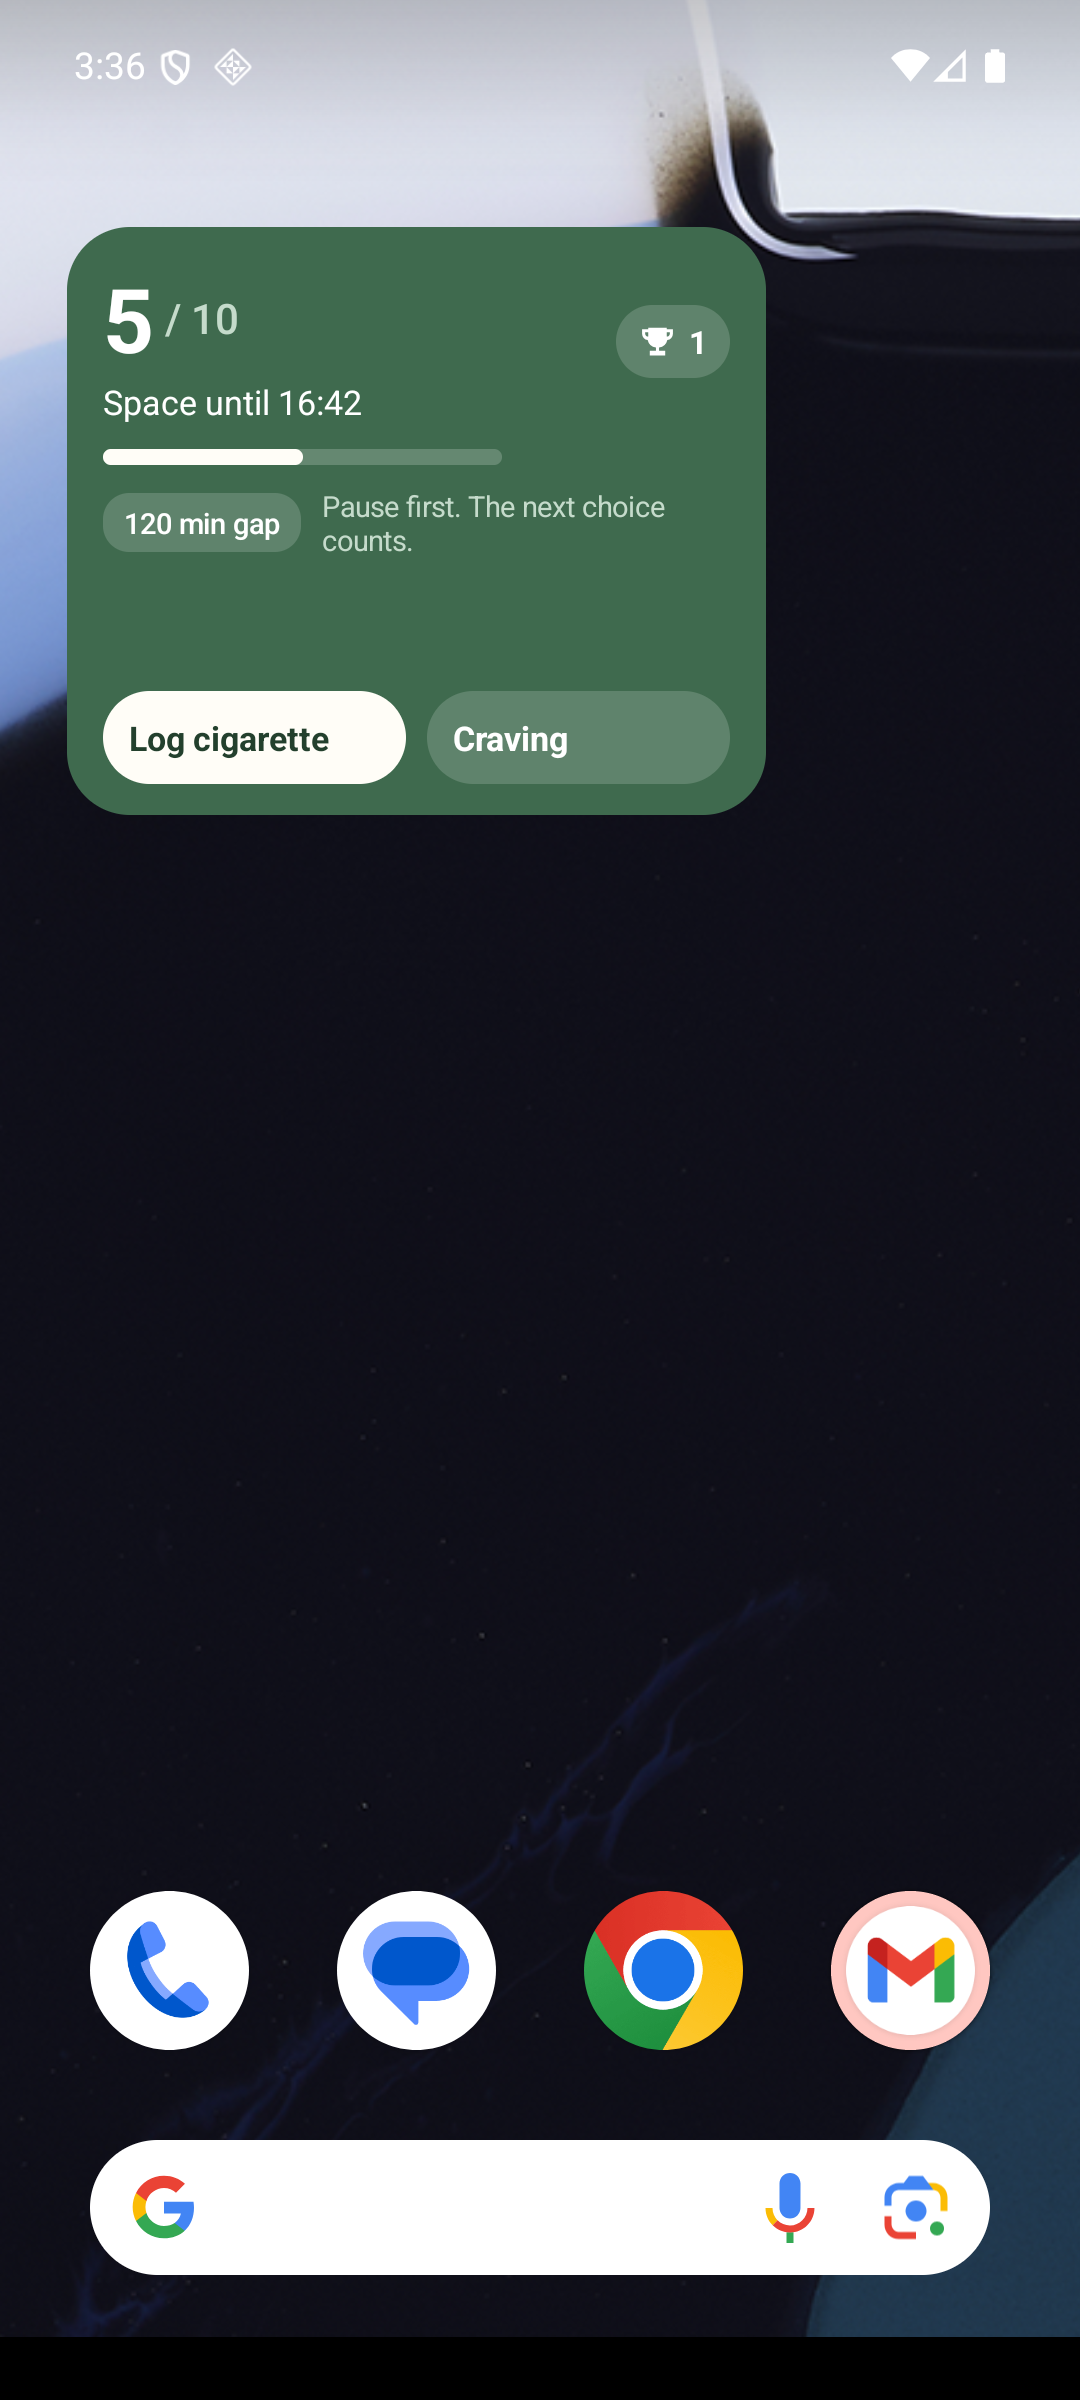
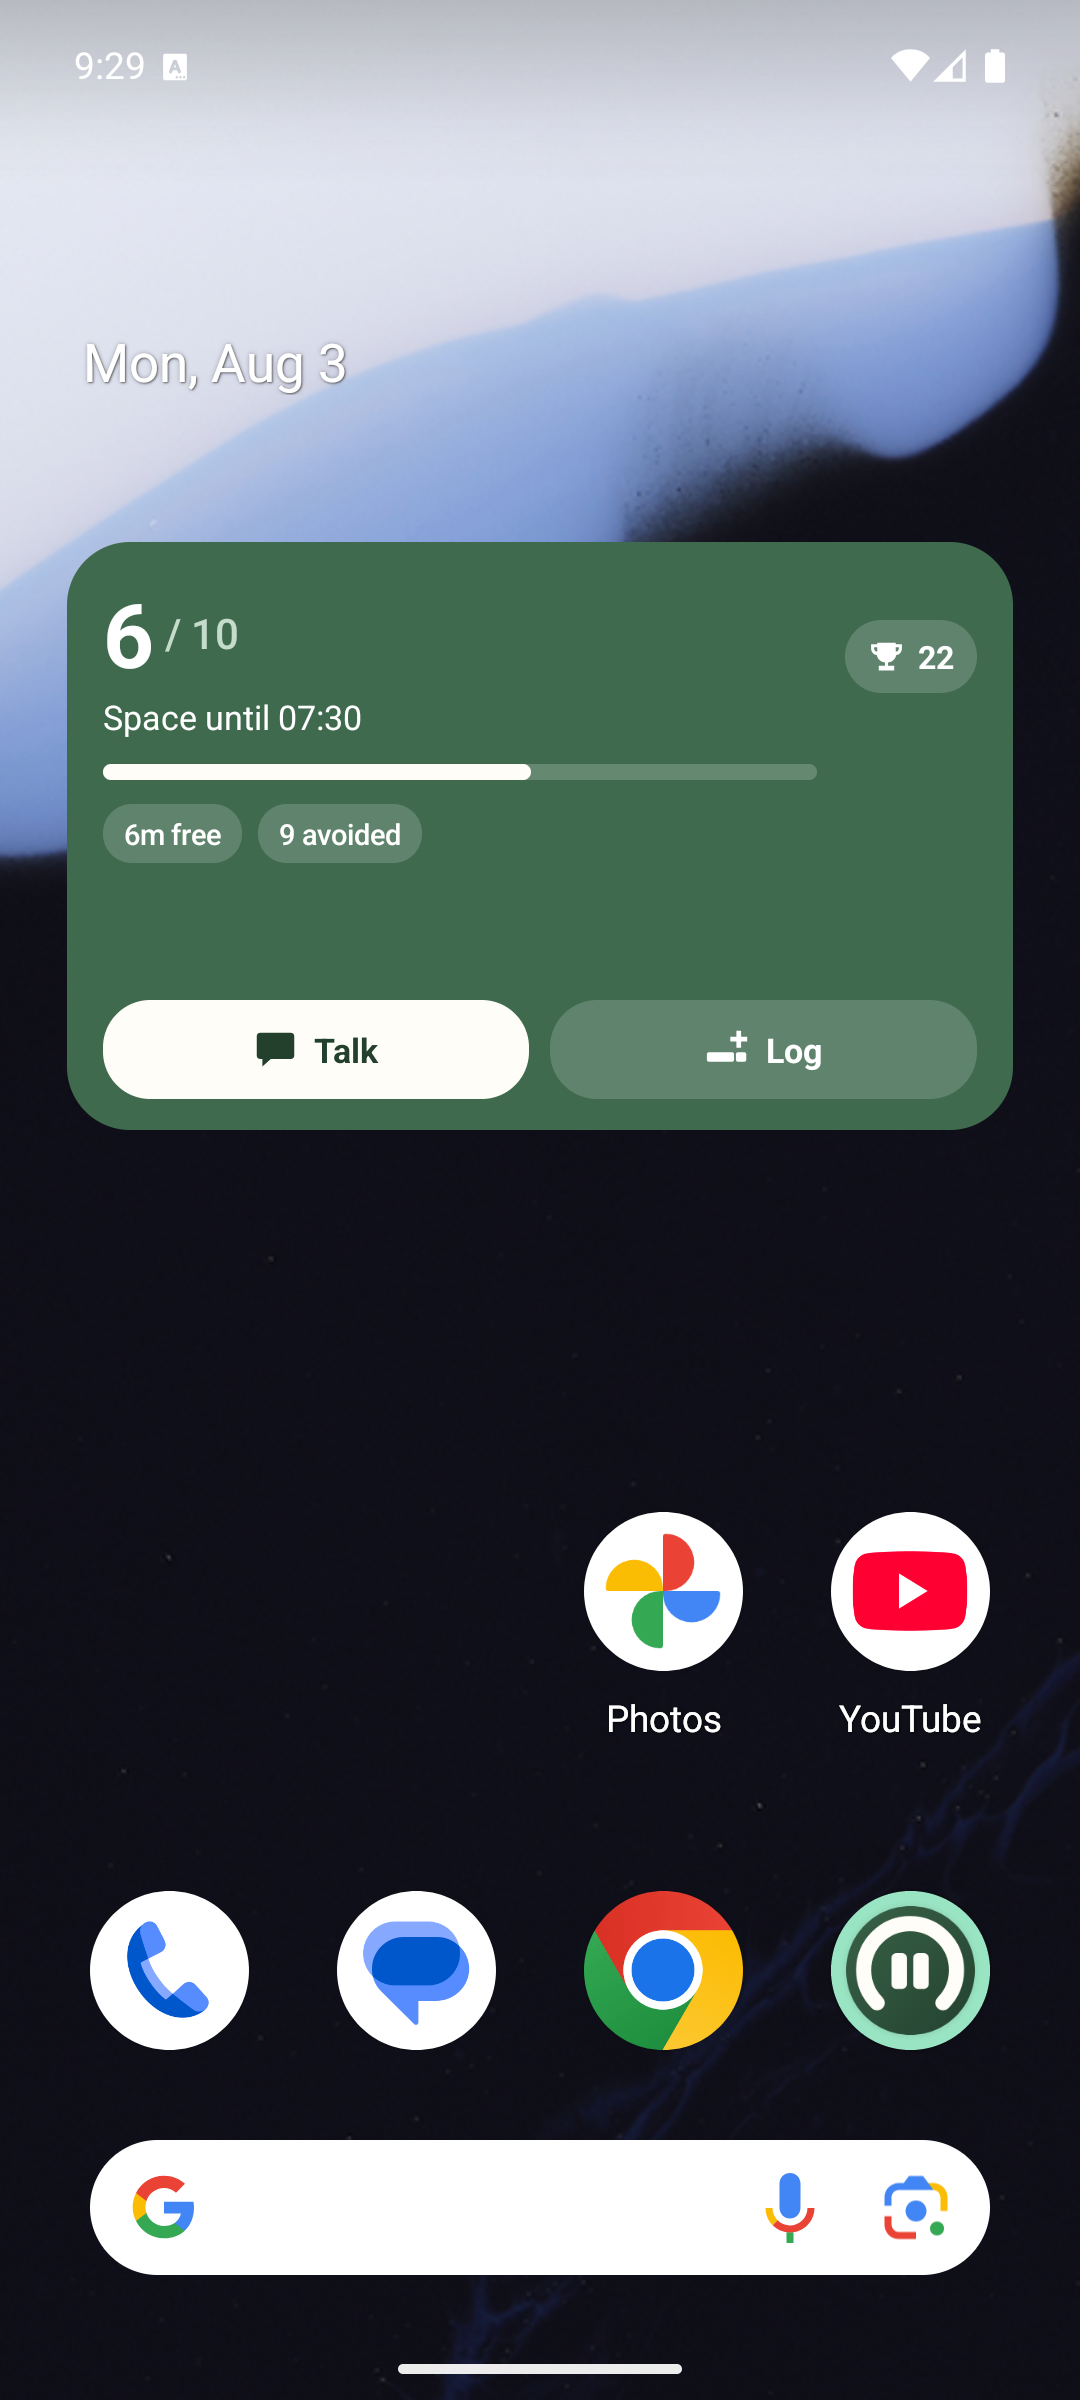
Make the widget countdown live and stop stray taps from logging
The countdown was frozen
- It was computed in Kotlin at render time, but Glance only redraws when something
  asks it to — in practice every six hours. So the "time to next" figure was
  whatever it happened to be when the widget last drew, and only looked correct
  because opening the app forced a refresh.
- Replaced with a real Chronometer embedded via AndroidRemoteViews. The framework
  ticks it with no app process involved, so it stays honest on the home screen.
- Only shown for waits under four hours. Beyond that the seconds are noise and
  H:MM:SS crowded the header badly enough to clip; the status line already carries
  an absolute "until 07:30", which cannot go stale.

Logging now needs a second tap
- A widget lives under a thumb all day, and one stray tap wrote a cigarette that
  never happened — which corrupts the history everything else reasons from. The
  first tap arms the button, showing an amber "Sure?" with a tick; only a second
  tap within eight seconds commits. A worker returns it to rest if that tap never
  comes, and the twelve-second undo still applies afterwards.

Layout, icons and colour
- Talk takes the wide primary slot and logging sits secondary beside it: the
  encouraged action should be the easy one.
- Labels are back on both buttons. Icon-only was unreadable at this size — the
  cigarette-plus in particular rendered as an ambiguous smudge — and the icon has
  been redrawn chunkier to survive 17dp.
[…]

diff --git a/app/src/main/java/com/pace/reduction/widget/PaceWidget.kt b/app/src/main/java/com/pace/reduction/widget/PaceWidget.kt
@@ -2,6 +2,8 @@ package com.pace.reduction.widget
 
 import android.content.Context
 import android.content.Intent
+import android.os.SystemClock
+import android.widget.RemoteViews
 import androidx.compose.runtime.Composable
 import androidx.compose.runtime.collectAsState
 import androidx.compose.runtime.getValue
@@ -15,6 +17,8 @@ import androidx.glance.GlanceTheme
 import androidx.glance.ColorFilter
 import androidx.glance.ImageProvider
 import androidx.glance.Image
+import androidx.glance.LocalContext
+import androidx.glance.appwidget.AndroidRemoteViews
 import androidx.glance.LocalSize
 import androidx.glance.action.clickable
 import androidx.glance.appwidget.GlanceAppWidget
@@ -102,7 +106,7 @@ private fun PaceWidgetContent(context: Context, snapshot: WidgetSnapshot, size: 
             return@Column
         }
 
-        val countdown = countdownLabel(snapshot)
+        val countdownTarget = countdownTargetEpochMs(snapshot)
 
         Row(verticalAlignment = Alignment.CenterVertically, modifier = GlanceModifier.fillMaxWidth()) {
             Column(modifier = GlanceModifier.defaultWeight()) {
@@ -131,23 +135,16 @@ private fun PaceWidgetContent(context: Context, snapshot: WidgetSnapshot, size: 
                     style = TextStyle(color = OnDark, fontSize = if (compact) 11.sp else 13.sp),
                 )
             }
-            // The headline number people actually want: how long until the next one is due.
-            if (countdown != null) {
+            // The figure people actually want, ticking on its own via a system Chronometer.
+            if (countdownTarget != null) {
                 Column(horizontalAlignment = Alignment.Horizontal.End) {
-                    Text(
-                        text = countdown,
-                        style = TextStyle(
-                            color = OnDark,
-                            fontSize = if (compact) 16.sp else 22.sp,
-                            fontWeight = FontWeight.Bold,
-                        ),
-                    )
+                    LiveCountdown(targetEpochMs = countdownTarget)
                     Text(
                         text = context.getString(R.string.widget_until_next_label),
                         style = TextStyle(color = Muted, fontSize = 10.sp),
                     )
                 }
-            } else if (!compact && snapshot.latestBadgeId.isNotBlank()) {
+            } else if (snapshot.badgeCount > 0) {
                 BadgeChip(context, snapshot)
             }
         }
@@ -170,19 +167,17 @@ private fun PaceWidgetContent(context: Context, snapshot: WidgetSnapshot, size: 
                 } else {
                     StatPill(text = context.getString(R.string.widget_avoided, snapshot.cigarettesAvoided))
                 }
+                // The badge count lives in the top-right corner; repeating it here was noise.
                 if (wide && snapshot.zeroDayStreak > 0) {
                     Spacer(GlanceModifier.width(6.dp))
                     StatPill(text = context.getString(R.string.widget_streak, snapshot.zeroDayStreak))
                 }
-                if (wide && snapshot.badgeCount > 0) {
-                    Spacer(GlanceModifier.width(6.dp))
-                    BadgeChip(context, snapshot)
-                }
             }
         }
 
-        // Only when there is genuine vertical room, otherwise the line gets clipped mid-word.
-        if (!compact && size.height >= 140.dp && snapshot.quote.isNotBlank()) {
+        // Fills the gap between the stats and the actions when the widget is tall enough to
+        // render it whole; clipping a quote mid-word looks worse than omitting it.
+        if (!compact && size.height >= 110.dp && snapshot.quote.isNotBlank()) {
             Spacer(GlanceModifier.height(9.dp))
             Text(
                 text = snapshot.quote,
@@ -192,18 +187,22 @@ private fun PaceWidgetContent(context: Context, snapshot: WidgetSnapshot, size: 
         }
 
         Spacer(GlanceModifier.defaultWeight())
-        // Icons rather than labels: the widget is glanceable, and these two actions are obvious.
+        val armed = snapshot.logArmedUntilEpochMs > System.currentTimeMillis()
         Row(modifier = GlanceModifier.fillMaxWidth()) {
+            // Talking is the encouraged action, so it gets the wide primary slot; logging sits
+            // narrower alongside and needs a second tap to commit.
             WidgetAction(
-                iconRes = R.drawable.ic_widget_log,
-                contentDescription = context.getString(R.string.widget_log),
+                iconRes = R.drawable.ic_widget_chat,
+                label = context.getString(R.string.widget_talk),
+                contentDescription = context.getString(R.string.widget_talk),
                 modifier = GlanceModifier.defaultWeight(),
-                onClick = actionRunCallback<WidgetLogAction>(),
+                onClick = actionStartActivity(coachIntent),
             )
             Spacer(GlanceModifier.width(8.dp))
             if (canUndo) {
                 WidgetAction(
                     iconRes = R.drawable.ic_widget_undo,
+                    label = context.getString(R.string.undo),
                     contentDescription = context.getString(R.string.undo),
                     modifier = GlanceModifier.defaultWeight(),
                     onClick = actionRunCallback<WidgetUndoAction>(),
@@ -211,11 +210,15 @@ private fun PaceWidgetContent(context: Context, snapshot: WidgetSnapshot, size: 
                 )
             } else {
                 WidgetAction(
-                    iconRes = R.drawable.ic_widget_chat,
-                    contentDescription = context.getString(R.string.have_craving),
+                    iconRes = if (armed) R.drawable.ic_widget_confirm else R.drawable.ic_widget_log,
+                    label = context.getString(
+                        if (armed) R.string.widget_log_confirm else R.string.widget_log_short,
+                    ),
+                    contentDescription = context.getString(R.string.widget_log),
                     modifier = GlanceModifier.defaultWeight(),
-                    onClick = actionStartActivity(coachIntent),
-                    subdued = true,
+                    onClick = actionRunCallback<WidgetLogAction>(),
+                    subdued = !armed,
+                    emphasised = armed,
                 )
             }
         }
@@ -284,10 +287,33 @@ private fun StatPill(text: String) {
 }
 
 /**
- * Time left until the next planned window, or null when nothing is being waited for.
- * Computed at render time; [WidgetBoundaryWorker] re-renders when the window arrives.
+ * A system-ticked countdown. Glance only redraws when something asks it to, so a value computed
+ * here in Kotlin would freeze between refreshes; Chronometer is driven by the framework instead and
+ * keeps counting with no app process running.
  */
-private fun countdownLabel(snapshot: WidgetSnapshot): String? {
+@Composable
+private fun LiveCountdown(targetEpochMs: Long) {
+    val context = LocalContext.current
+    val remoteViews = RemoteViews(context.packageName, R.layout.widget_countdown).apply {
+        setChronometerCountDown(R.id.widget_countdown, true)
+        setChronometer(
+            R.id.widget_countdown,
+            // Chronometer works in elapsed-realtime, so rebase the wall-clock target onto it.
+            SystemClock.elapsedRealtime() + (targetEpochMs - System.currentTimeMillis()),
+            null,
+            true,
+        )
+    }
+    AndroidRemoteViews(remoteViews)
+}
+
+/**
+ * The moment the current wait ends, or null when a ticking countdown would not earn its space.
+ *
+ * Beyond a few hours the seconds are noise and H:MM:SS crowds the header — the status line already
+ * says "until 07:30", which never goes stale anyway.
+ */
+private fun countdownTargetEpochMs(snapshot: WidgetSnapshot): Long? {
     if (snapshot.state != WidgetStateProto.WIDGET_STATE_SPACING &&
         snapshot.state != WidgetStateProto.WIDGET_STATE_MORNING_HOLD &&
         snapshot.state != WidgetStateProto.WIDGET_STATE_REST
@@ -295,13 +321,11 @@ private fun countdownLabel(snapshot: WidgetSnapshot): String? {
         return null
     }
     val remaining = snapshot.stateUntilEpochMs - System.currentTimeMillis()
-    if (remaining <= 0) return null
-    val minutes = remaining / 60_000
-    return when {
-        minutes >= 60 -> "${minutes / 60}h ${minutes % 60}m"
-        else -> "${minutes}m"
-    }
+    return snapshot.stateUntilEpochMs.takeIf { remaining in 1..MAX_COUNTDOWN_MS }
 }
+
+/** Above this, show the absolute time instead of a ticking clock. */
+private const val MAX_COUNTDOWN_MS = 4 * 60 * 60 * 1_000L
 
 private fun shortDuration(minutes: Int): String {
     val safe = minutes.coerceAtLeast(0)
@@ -337,24 +361,39 @@ private fun BadgeChip(context: Context, snapshot: WidgetSnapshot) {
 @Composable
 private fun WidgetAction(
     iconRes: Int,
+    label: String,
     contentDescription: String,
     modifier: GlanceModifier,
     onClick: androidx.glance.action.Action,
     subdued: Boolean = false,
+    emphasised: Boolean = false,
 ) {
-    Box(
+    val background = when {
+        emphasised -> ColorProvider(Color(0xFFE9B44C), Color(0xFFD79E33))
+        subdued -> ColorProvider(Color(0x2BFFFFFF), Color(0x24FFFFFF))
+        else -> Surface
+    }
+    val foreground = if (subdued) OnDark else Ink
+    Row(
         modifier = modifier
-            .background(if (subdued) ColorProvider(Color(0x2BFFFFFF), Color(0x24FFFFFF)) else Surface)
+            .background(background)
             .cornerRadius(18.dp)
             .clickable(onClick)
             .padding(vertical = 10.dp),
-        contentAlignment = Alignment.Center,
+        verticalAlignment = Alignment.CenterVertically,
+        horizontalAlignment = Alignment.Horizontal.CenterHorizontally,
     ) {
         Image(
             provider = ImageProvider(iconRes),
             contentDescription = contentDescription,
-            colorFilter = ColorFilter.tint(if (subdued) OnDark else Ink),
-            modifier = GlanceModifier.size(20.dp),
+            colorFilter = ColorFilter.tint(foreground),
+            modifier = GlanceModifier.size(17.dp),
+        )
+        Spacer(GlanceModifier.width(6.dp))
+        Text(
+            text = label,
+            maxLines = 1,
+            style = TextStyle(color = foreground, fontSize = 13.sp, fontWeight = FontWeight.Bold),
         )
     }
 }
@@ -384,14 +423,23 @@ private fun Long.asLocalTime(): String = Instant.ofEpochMilli(this)
     .atZone(ZoneId.systemDefault())
     .format(DateTimeFormatter.ofPattern("HH:mm"))
 
+/**
+ * Two-step by design. A widget sits under a thumb all day, and an accidental tap writes a
+ * cigarette that never happened — which corrupts exactly the history the whole app reasons from.
+ * The first tap only arms the button.
+ */
 class WidgetLogAction : ActionCallback {
     override suspend fun onAction(
         context: Context,
         glanceId: GlanceId,
         parameters: androidx.glance.action.ActionParameters,
     ) {
-        context.repository().logCigarette(source = "WIDGET")
-        WidgetUndoExpiryWorker.schedule(context)
+        if (context.repository().armOrCommitWidgetLog()) {
+            context.repository().logCigarette(source = "WIDGET")
+            WidgetUndoExpiryWorker.schedule(context)
+        } else {
+            WidgetDisarmWorker.schedule(context)
+        }
     }
 }
 

diff --git a/app/src/main/java/com/pace/reduction/data/repository/PaceRepository.kt b/app/src/main/java/com/pace/reduction/data/repository/PaceRepository.kt
@@ -515,6 +515,37 @@ class PaceRepository(
         return firstSentence.takeIf { it.isNotEmpty() && it.length <= MAX_WIDGET_QUOTE_CHARS }
     }
 
+    /**
+     * Widget logging is two-step so a pocket tap cannot invent a cigarette. The first tap arms the
+     * button for [LOG_ARM_WINDOW_MS]; only a second tap inside that window actually logs.
+     *
+     * Returns true when this tap committed a log.
+     */
+    suspend fun armOrCommitWidgetLog(): Boolean {
+        val now = clock.millis()
+        var commit = false
+        widgetStore.updateData { current ->
+            if (current.logArmedUntilEpochMs > now) {
+                commit = true
+                current.toBuilder().clearLogArmedUntilEpochMs().build()
+            } else {
+                current.toBuilder().setLogArmedUntilEpochMs(now + LOG_ARM_WINDOW_MS).build()
+            }
+        }
+        if (!commit) PaceWidget().updateAll(context)
+        return commit
+    }
+
+    /** Drops the armed state once the window lapses, so the button returns to normal. */
+    suspend fun disarmWidgetLog() {
+        val now = clock.millis()
+        val armed = widgetStore.data.first().logArmedUntilEpochMs
+        if (armed in 1..now) {
+            widgetStore.updateData { it.toBuilder().clearLogArmedUntilEpochMs().build() }
+            PaceWidget().updateAll(context)
+        }
+    }
+
     /** True when the widget's line is older than an hour and worth replacing. */
     suspend fun widgetQuoteIsStale(): Boolean {
         if (!aiSettings.first().isReady) return false
@@ -1292,6 +1323,7 @@ class PaceRepository(
 
         const val QUOTE_REFRESH_MS = 60 * 60 * 1_000L
         const val MAX_WIDGET_QUOTE_CHARS = 90
+        const val LOG_ARM_WINDOW_MS = 8_000L
 
         /** Fire a nudge when the next planned window is this close. */
         const val NUDGE_LEAD_MINUTES = 20L

diff --git a/app/src/main/java/com/pace/reduction/widget/WidgetDisarmWorker.kt b/app/src/main/java/com/pace/reduction/widget/WidgetDisarmWorker.kt
@@ -1,0 +1,37 @@
+package com.pace.reduction.widget
+
+import android.content.Context
+import androidx.work.CoroutineWorker
+import androidx.work.ExistingWorkPolicy
+import androidx.work.OneTimeWorkRequestBuilder
+import androidx.work.WorkManager
+import androidx.work.WorkerParameters
+import com.pace.reduction.PaceApplication
+import java.util.concurrent.TimeUnit
+
+/** Returns the log button to its resting state if the confirm tap never comes. */
+class WidgetDisarmWorker(
+    appContext: Context,
+    workerParameters: WorkerParameters,
+) : CoroutineWorker(appContext, workerParameters) {
+    override suspend fun doWork(): Result = runCatching {
+        (applicationContext as PaceApplication).container.repository.disarmWidgetLog()
+    }.fold(
+        onSuccess = { Result.success() },
+        onFailure = { Result.retry() },
+    )
+
+    companion object {
+        private const val UNIQUE_WORK_NAME = "pace-widget-disarm"
+
+        fun schedule(context: Context) {
+            val request = OneTimeWorkRequestBuilder<WidgetDisarmWorker>()
+                // Slightly past the arming window so the button is definitely stale by then.
+                .setInitialDelay(9, TimeUnit.SECONDS)
+                .addTag("pace")
+                .build()
+            WorkManager.getInstance(context)
+                .enqueueUniqueWork(UNIQUE_WORK_NAME, ExistingWorkPolicy.REPLACE, request)
+        }
+    }
+}
